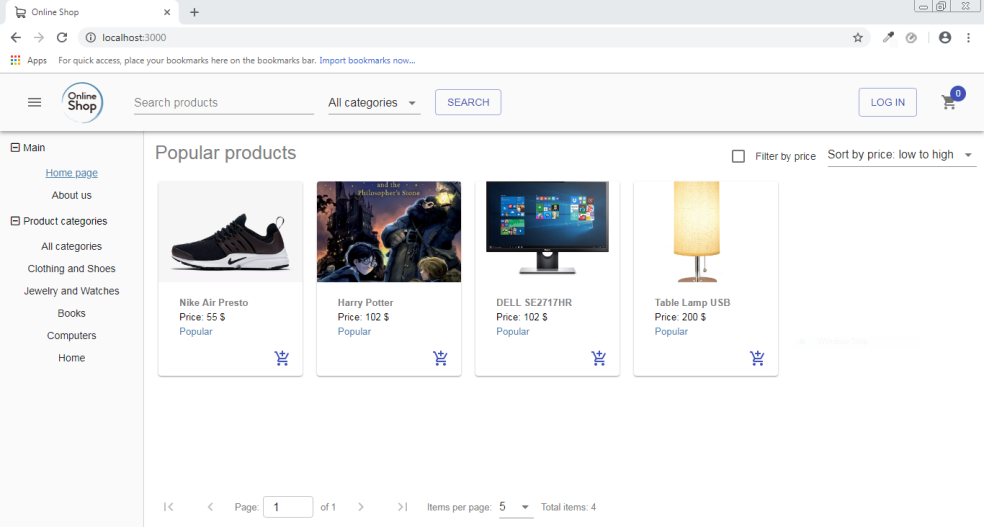
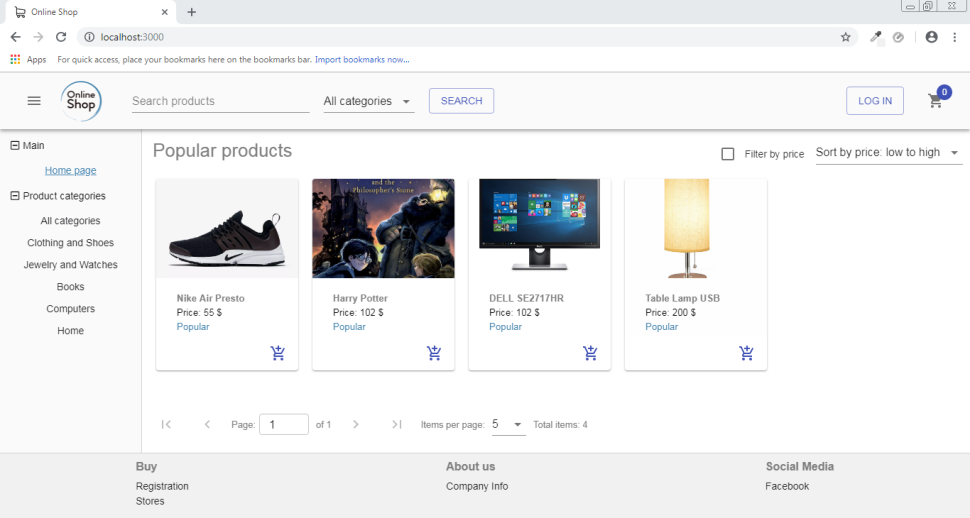
Add footer

diff --git a/src/Components/Footer/Footer.js b/src/Components/Footer/Footer.js
@@ -1,0 +1,89 @@
+import React, { Component } from 'react';
+import IconButton from '@material-ui/core/IconButton';
+import AddShoppingCartIcon from '@material-ui/icons/AddShoppingCart';
+import { connect } from "react-redux";
+import { addItemInCart } from "../../Redux/Actions"
+import { withRouter } from "react-router-dom";
+import { NavLink } from 'react-router-dom'
+import "./Footer.css"
+
+class Footer extends Component {
+    render() {
+        return (
+            <div style={{ boxSizing: "border-box", padding: 10, borderTop: "1px solid lightgray", height: 100, backgroundColor: "#f1f1f1", justifyContent: "space-around", display: "flex" }}>
+
+                <div>
+                    <div style={{ fontWeight: "bold", marginBottom: 10, color: "gray" }}>Buy</div>
+                    <NavLink
+                        to={"/registration"}
+                        exact
+                        style={{
+                            textDecoration: 'none',
+                            color: "rgb(32, 32, 34)"
+
+                        }}
+                        activeStyle={{
+                            color: "#4282ad",
+                            textDecoration: "underline"
+                        }}
+                    >
+                        <div className="footerItem">Registration</div>
+
+                    </NavLink>
+                    <NavLink
+                        to={"/stores"}
+                        exact
+                        style={{
+                            textDecoration: 'none',
+                            color: "rgb(32, 32, 34)"
+
+                        }}
+                        activeStyle={{
+                            color: "#4282ad",
+                            textDecoration: "underline"
+                        }}
+                    >
+                        <div className="footerItem">Stores</div>
+
+                    </NavLink>
+                </div>
+                <div>
+                    <div style={{ fontWeight: "bold", marginBottom: 10, color: "gray" }}>About us</div>
+                    <NavLink
+                        to={"/info"}
+                        exact
+                        style={{
+                            textDecoration: 'none',
+                            color: "rgb(32, 32, 34)"
+
+                        }}
+                        activeStyle={{
+                            color: "#4282ad",
+                            textDecoration: "underline"
+                        }}
+                    >
+                        <div className="footerItem">Company Info</div>
+
+                    </NavLink>
+                </div>
+                <div>
+                    <div style={{ fontWeight: "bold", marginBottom: 10, color: "gray" }}>Social Media</div>
+                    <a href="http://www.facebook.com"
+                        target="blank"
+                        style={{
+                            textDecoration: 'none',
+                            color: "rgb(32, 32, 34)"
+
+                        }}
+                    >
+                        <div className="footerItem">Facebook</div>
+                    </a>
+                </div >
+
+
+            </div >
+        )
+    }
+}
+
+export default Footer;

diff --git a/src/Components/Menu/Menu.js b/src/Components/Menu/Menu.js
@@ -16,13 +16,12 @@ const generateMenuModel = (categories) => {
     let menuModel = [
         { type: "title", name: "Main", id: 0 },
         { type: "item", name: "Home page", url: "/", parentID: 0, id: 1 },
-        { type: "item", name: "About us", url: "/about", parentID: 0, id: 2 },
-        { type: "title", name: "Product categories", id: 3 },
+        { type: "title", name: "Product categories", id: 2 },
     ];
 
     menuModel = menuModel.concat(categories.map((x, i) => {
         return {
-            name: x, url: "/search/?category=" + x, id: 4 + i, type: "item", parentID: 3
+            name: x, url: "/search/?category=" + x, id: 4 + i, type: "item", parentID: 2
         }
     }))
 

diff --git a/src/App.js b/src/App.js
@@ -9,7 +9,7 @@ import Details from "./Components/Details/Details"
 import Order from "./Components/Order/Order"
 import Login from "./Components/Login/Login"
 import ProtectedRoute from "./Components/ProtectedRoute/ProtectedRoute"
-
+import Footer from "./Components/Footer/Footer"
 
 class App extends Component {
   render() {
@@ -30,9 +30,10 @@ class App extends Component {
             </Switch>
           </div>
         </div>
+        <Footer />
       </div>
     );
   }
 }
- 
+
 export default App;

diff --git a/src/Components/Paging/Paging.js b/src/Components/Paging/Paging.js
@@ -20,7 +20,7 @@ const Paging = (props) => {
 
 
     return (
-        <div style={{display:"flex", marginTop:15, fontSize:13, color:"gray", alignItems:"center"}} >
+        <div style={{display:"flex", marginTop:15, height:60, fontSize:13, color:"gray", alignItems:"center"}} >
                  <IconButton
                     size="small"
                     color="primary"

diff --git a/src/Components/Footer/Footer.css b/src/Components/Footer/Footer.css
@@ -1,0 +1,9 @@
+.footerItem {
+    font-size: 14px;
+    margin-bottom:5px;
+}
+
+.footerItem:hover {
+    text-decoration: underline;
+    color: #4282ad;
+}
